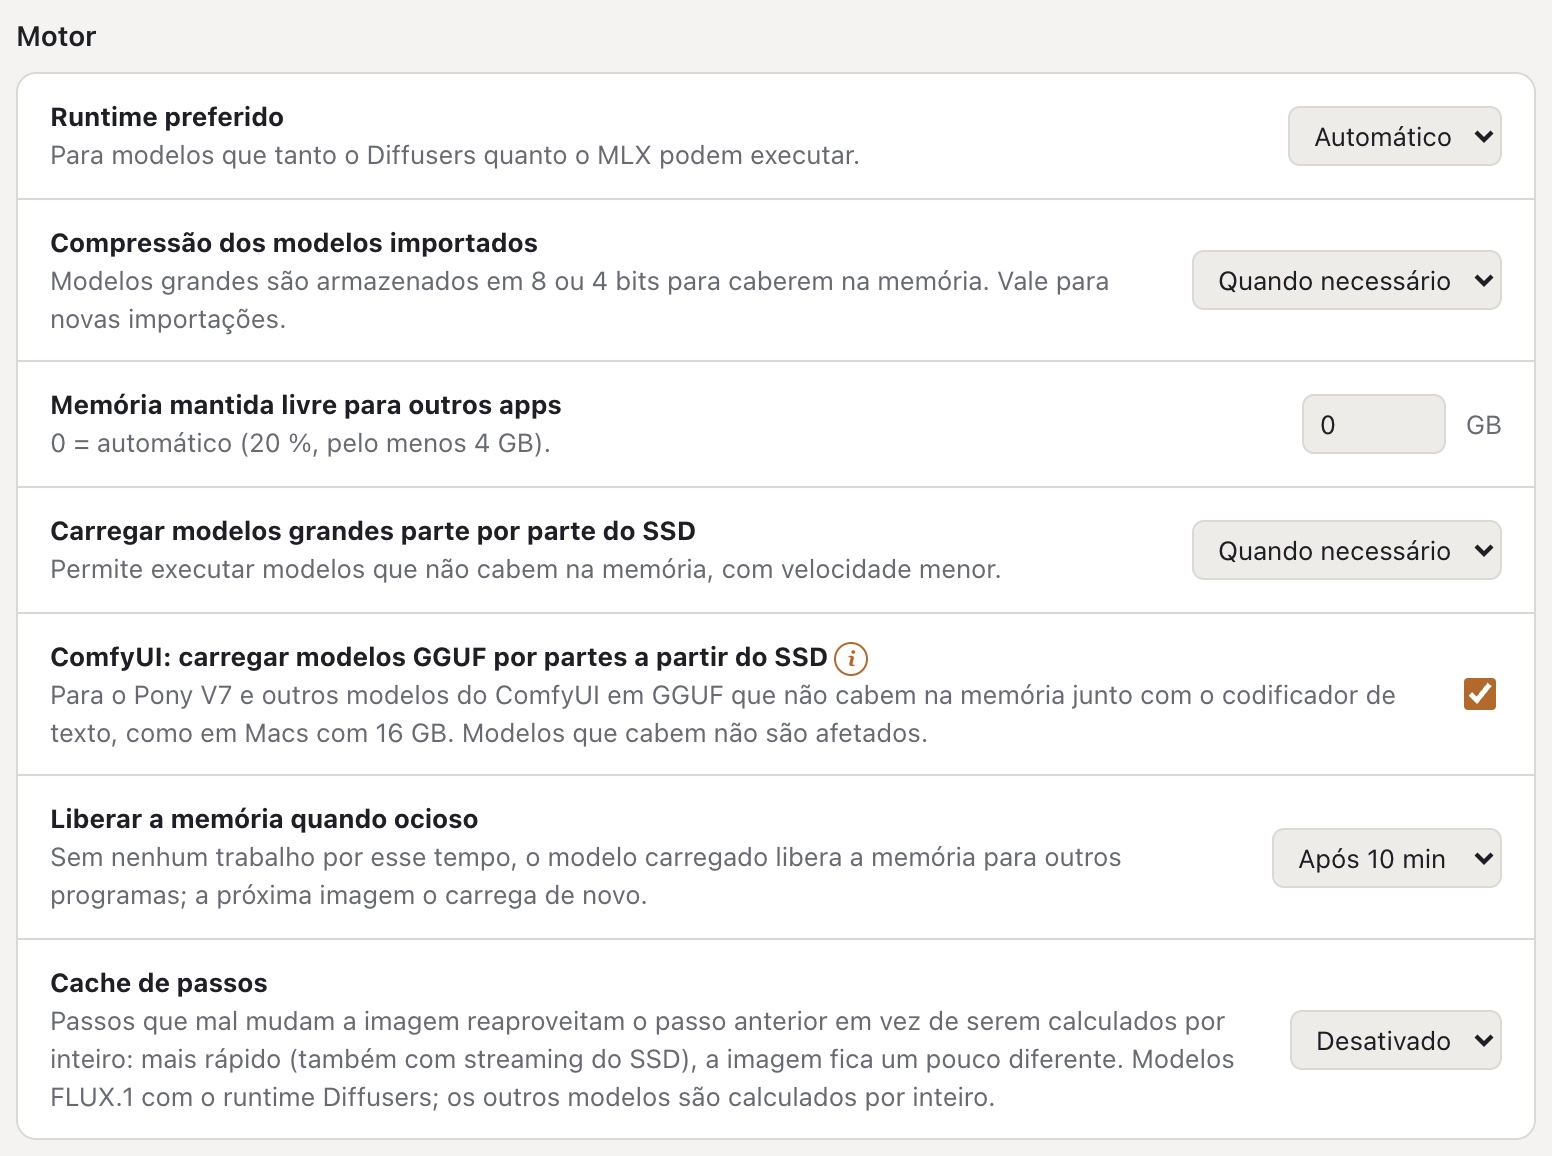
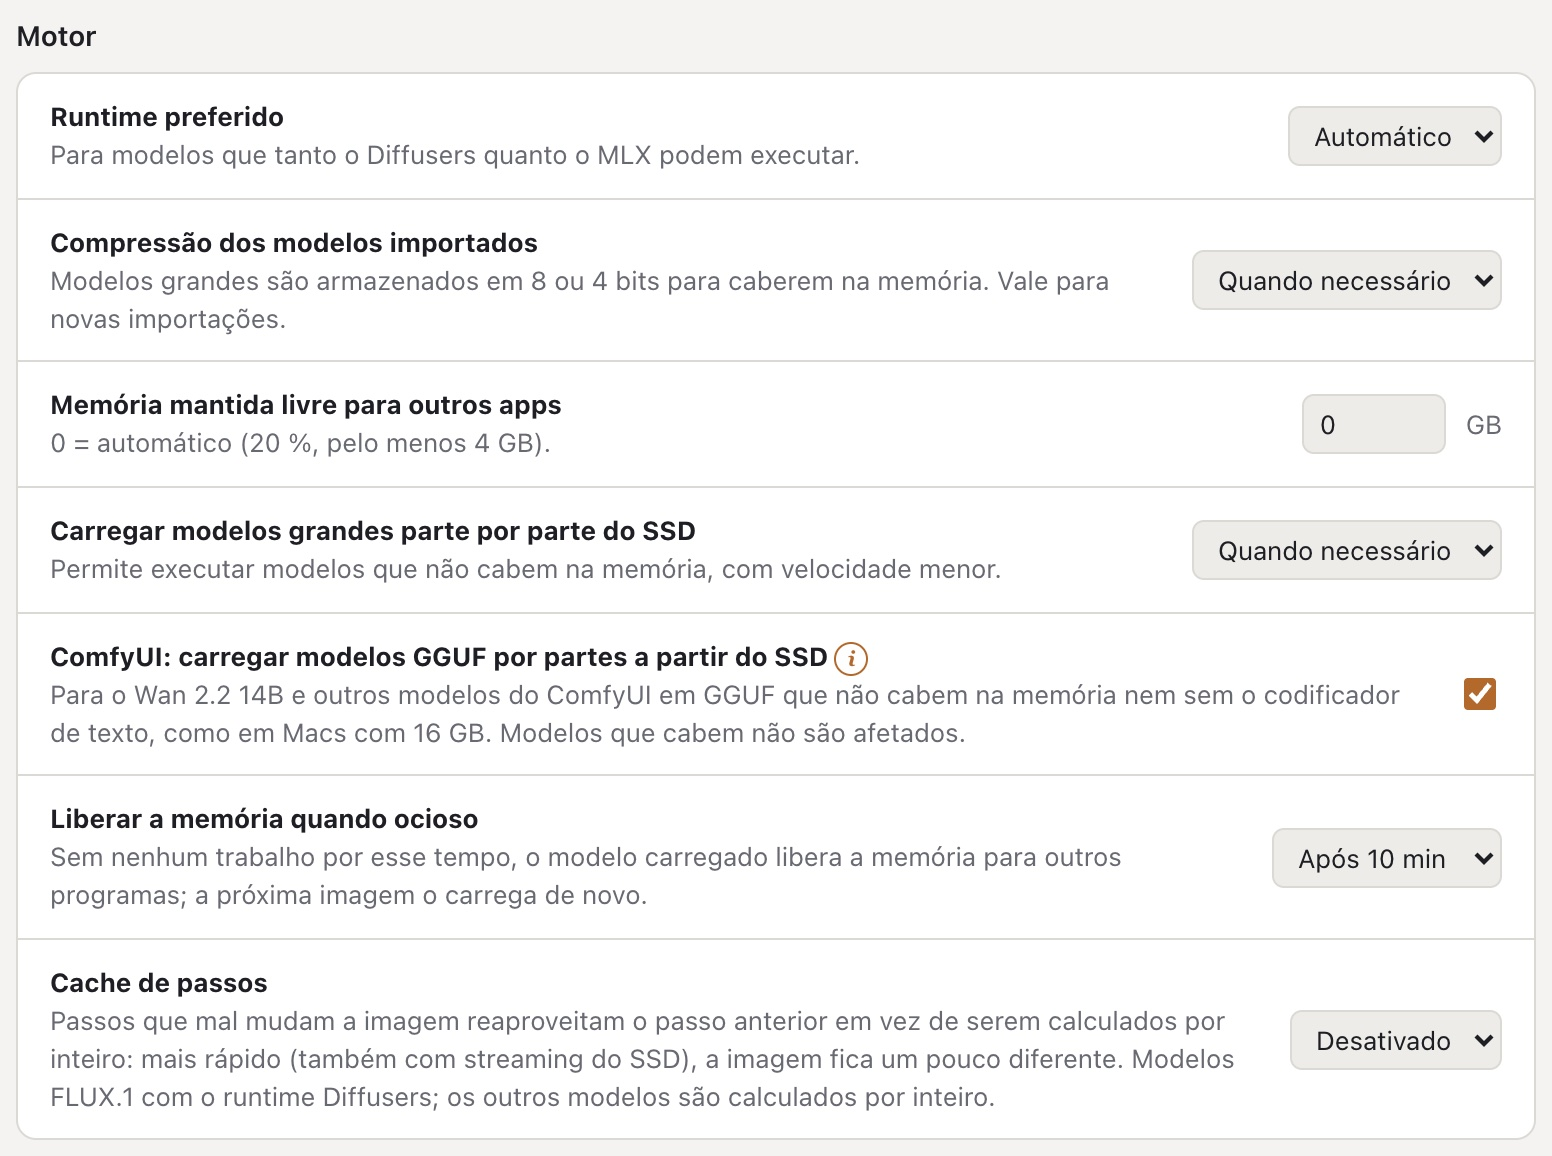
0.7.11: FLUX.2 [klein] 9B streamed on 16 GB stays within its memory plan, ComfyUI drops the text encoder when memory runs short (Pony V7 on 16 GB whole in memory and faster, NetaYume v4 9.2 instead of 14.1 GB)

Changed region(s): [[0.0309, 0.5917, 0.8969, 0.654]]

diff --git a/src/shared/i18n/en/settings.ts b/src/shared/i18n/en/settings.ts
@@ -60,8 +60,8 @@ export default {
     streaming: 'Load large models piece by piece from the SSD',
     streamingHint: 'Lets models run that do not fit into memory, at lower speed.',
     comfyStreaming: 'ComfyUI: load GGUF models piece by piece from the SSD',
-    comfyStreamingHint: 'For Pony V7 and other ComfyUI models in GGUF that do not fit into memory beside their text encoder, as on Macs with 16 GB. Models that fit are not affected.',
-    comfyStreamingDetails: 'Measured with Pony V7 (GGUF Q8_0, 1024 px): on 16 GB about 88 s per step instead of 225 s with the whole model in memory (macOS swaps). On 24 GB the model fits and loads whole (44 s per step); loaded piece by piece it would take 50 s. Only GGUF files: safetensors are read into memory as a whole.',
+    comfyStreamingHint: 'For Wan 2.2 14B and other ComfyUI models in GGUF that do not fit into memory even without their text encoder, as on Macs with 16 GB. Models that fit are not affected.',
+    comfyStreamingDetails: 'Only for models that do not fit even after ComfyUI dropped their text encoder (it does once the prompt is encoded and memory runs short), e.g. Wan 2.2 14B on 16 GB. Pony V7 (GGUF Q8_0, 1024 px) now loads whole on 16 GB: 47 s per step instead of 65 s piece by piece; on 24 GB 44 s, piece by piece it would take 50 s. Only GGUF files: safetensors are read into memory as a whole.',
     stepCache: 'Step caching',
     stepCacheHint: 'Steps that barely change the picture reuse the step before instead of being computed in full: faster (also when streaming from the SSD), the picture differs slightly. FLUX.1 models with the Diffusers runtime; other models are computed in full.',
     idleUnload: 'Free the memory when idle',

diff --git a/site/pt-PT/index.html b/site/pt-PT/index.html
@@ -46,7 +46,7 @@
 
   <header class="top">
     <div class="wrap">
-      <span class="brandbox"><a class="brand" href="../pt-PT/"><img src="../assets/icon.svg" width="30" height="30" alt="">VulKara</a><a class="ver" href="../changes/" title="Novidades" aria-label="Novidades: v0.7.10">v0.7.10</a></span>
+      <span class="brandbox"><a class="brand" href="../pt-PT/"><img src="../assets/icon.svg" width="30" height="30" alt="">VulKara</a><a class="ver" href="../changes/" title="Novidades" aria-label="Novidades: v0.7.11">v0.7.11</a></span>
       <nav aria-label="VulKara">
         <a href="#features">Funcionalidades</a>
         <a href="#models">Modelos</a>

diff --git a/site/de/index.html b/site/de/index.html
@@ -46,7 +46,7 @@
 
   <header class="top">
     <div class="wrap">
-      <span class="brandbox"><a class="brand" href="../de/"><img src="../assets/icon.svg" width="30" height="30" alt="">VulKara</a><a class="ver" href="../changes/" title="Änderungen" aria-label="Änderungen: v0.7.10">v0.7.10</a></span>
+      <span class="brandbox"><a class="brand" href="../de/"><img src="../assets/icon.svg" width="30" height="30" alt="">VulKara</a><a class="ver" href="../changes/" title="Änderungen" aria-label="Änderungen: v0.7.11">v0.7.11</a></span>
       <nav aria-label="VulKara">
         <a href="#features">Funktionen</a>
         <a href="#models">Modelle</a>

diff --git a/site/pt-BR/index.html b/site/pt-BR/index.html
@@ -46,7 +46,7 @@
 
   <header class="top">
     <div class="wrap">
-      <span class="brandbox"><a class="brand" href="../pt-BR/"><img src="../assets/icon.svg" width="30" height="30" alt="">VulKara</a><a class="ver" href="../changes/" title="Novidades" aria-label="Novidades: v0.7.10">v0.7.10</a></span>
+      <span class="brandbox"><a class="brand" href="../pt-BR/"><img src="../assets/icon.svg" width="30" height="30" alt="">VulKara</a><a class="ver" href="../changes/" title="Novidades" aria-label="Novidades: v0.7.11">v0.7.11</a></span>
       <nav aria-label="VulKara">
         <a href="#features">Recursos</a>
         <a href="#models">Modelos</a>

diff --git a/site/es/index.html b/site/es/index.html
@@ -46,7 +46,7 @@
 
   <header class="top">
     <div class="wrap">
-      <span class="brandbox"><a class="brand" href="../es/"><img src="../assets/icon.svg" width="30" height="30" alt="">VulKara</a><a class="ver" href="../changes/" title="Cambios" aria-label="Cambios: v0.7.10">v0.7.10</a></span>
+      <span class="brandbox"><a class="brand" href="../es/"><img src="../assets/icon.svg" width="30" height="30" alt="">VulKara</a><a class="ver" href="../changes/" title="Cambios" aria-label="Cambios: v0.7.11">v0.7.11</a></span>
       <nav aria-label="VulKara">
         <a href="#features">Funciones</a>
         <a href="#models">Modelos</a>

diff --git a/site/index.html b/site/index.html
@@ -46,7 +46,7 @@
 
   <header class="top">
     <div class="wrap">
-      <span class="brandbox"><a class="brand" href="./"><img src="assets/icon.svg" width="30" height="30" alt="">VulKara</a><a class="ver" href="changes/" title="Changes" aria-label="Changes: v0.7.10">v0.7.10</a></span>
+      <span class="brandbox"><a class="brand" href="./"><img src="assets/icon.svg" width="30" height="30" alt="">VulKara</a><a class="ver" href="changes/" title="Changes" aria-label="Changes: v0.7.11">v0.7.11</a></span>
       <nav aria-label="VulKara">
         <a href="#features">Features</a>
         <a href="#models">Models</a>

diff --git a/engines/comfy/main.py b/engines/comfy/main.py
@@ -136,10 +136,10 @@ def bit_sizes(model_dir, m, mode):
 
 
 def memory_mode(m, files, ram_gb):
-    """ComfyUI's memory mode for a model (m: its model.json): LOW_VRAM when SHARED would not hold it. SHARED keeps the
-    text encoder loaded next to the model, so it is counted without staging (Pony V7 Q8_0: 14 GB, docs/MEASUREMENTS.md
-    7h). Only a GGUF model streams from its file; Settings → ComfyUI streaming off (VK_COMFY_STREAMING=off) keeps
-    SHARED."""
+    """ComfyUI's memory mode for a model (m: its model.json): LOW_VRAM when SHARED would not hold it. In SHARED ComfyUI
+    drops the text encoder once the prompt is encoded when less than the memory kept free is left (--cache-ram), so it
+    is counted staged (Pony V7 Q8_0 on 16 GB: SHARED, 10.6 GB, docs/MEASUREMENTS.md 7ae). Only a GGUF model streams
+    from its file; Settings → ComfyUI streaming off (VK_COMFY_STREAMING=off) keeps SHARED."""
     if os.environ.get("VK_COMFY_STREAMING", "on").strip().lower() in ("off", "0"):
         return "SHARED"
     if not str(files.get("diffusion_model", "")).lower().endswith(".gguf"):
@@ -148,10 +148,11 @@ def memory_mode(m, files, ram_gb):
 
 
 def shared_plan(m, ram_gb):
-    """The memory plan of a model held whole in memory (SHARED), text encoder included."""
+    """The memory plan of a model held whole in memory (SHARED), its text encoder loaded only while encoding (not
+    measured for video: Wan 2.2 14B has two experts the plan counts as one, so it keeps the text encoder counted)."""
     spec = registry.ARCHS[m["arch"]]
     return memory.plan(m.get("components") or spec["fallback_params"], spec["denoiser"], spec["family"], ram_gb,
-                       quant="none", allow_staging=False)
+                       quant="none", allow_staging=spec.get("kind") != "video")
 
 
 class ComfyServer:
@@ -195,12 +196,16 @@ class ComfyServer:
         self.token = secrets.token_urlsafe(32)
         self.port = _free_port()
         self.mode = "SHARED"
-        # only on the loopback interface; API nodes (paid online services) are not loaded; attention: vulkara_memory
+        # only on the loopback interface; API nodes (paid online services) are not loaded; attention: vulkara_memory;
+        # --cache-ram: ComfyUI drops cached node outputs (the text encoder once the prompt is encoded) when less than
+        # the memory kept free is left, not only below its own 10 % (MEASUREMENTS 7ae)
+        ram = memory.total_ram_gb()
         with open(WORK / "comfyui.log", "w") as log:
             self.proc = subprocess.Popen(
                 [sys.executable, "main.py", "--listen", "127.0.0.1", "--port", str(self.port), "--disable-auto-launch",
                  "--disable-api-nodes", "--disable-metadata", "--disable-all-custom-nodes", "--use-pytorch-cross-attention",
                  "--whitelist-custom-nodes", "ComfyUI-GGUF", "vulkara_guard", "vulkara_memory",
+                 "--cache-ram", "%.1f" % min(ram - memory.budget_gb(ram), ram / 2),
                  "--extra-model-paths-config", str(cfg),
                  "--output-directory", str(WORK / "output"), "--temp-directory", str(WORK / "temp"),
                  "--input-directory", str(WORK / "input"), "--user-directory", str(WORK / "user")],

diff --git a/engines/diffusers/engine.py b/engines/diffusers/engine.py
@@ -33,8 +33,6 @@ def stream_mode():
     return {"0": "off", "1": "always"}.get(v, v if v in ("auto", "always", "off") else "auto")
 
 
-# share of a streamed denoiser counted as resident (one block plus the rest of the model)
-STREAM_RESIDENT_SHARE = 0.15
 # what the memory plan leaves free beyond that may keep blocks of a streamed model on the GPU, less this margin
 STREAM_KEEP_MARGIN = 0.05
 SLICE_ABOVE_PIXELS = 1536 * 1536
@@ -230,7 +228,7 @@ class LoadedModel:
             # the denoiser's blocks come from the SSD one at a time (streaming.py); "auto" only as an
             # emergency mode for models that do not fit otherwise
             comps = dict(self.m["components"])
-            comps[self.m["denoiser"]] = comps[self.m["denoiser"]] * STREAM_RESIDENT_SHARE
+            comps[self.m["denoiser"]] = comps[self.m["denoiser"]] * memory.stream_resident_share(self.spec["family"])
             plan = memory.plan(comps, self.m["denoiser"], self.spec["family"], ram, quant="auto")
             te_opts = None
             if not plan["fits"]:
@@ -1017,10 +1015,11 @@ def keep_plan(components, denoiser, family, ram_gb, streamed_plan, text_quant_op
     while a new prompt is encoded and are read back after (once per prompt, not per step): then only the denoising
     has to fit. Returns (share, plan, release), release: free the kept blocks while encoding."""
     full_gb = memory._gb(components[denoiser], "none")
+    resident = memory.stream_resident_share(family)
     worst = max([1] + [_TE_RANK.get(q, 0) for n, q in streamed_plan["quant"].items() if n != denoiser])
     for twentieths in range(20, 3, -1):
         share = twentieths / 20
-        keep = round(share - STREAM_RESIDENT_SHARE - STREAM_KEEP_MARGIN, 2)
+        keep = round(share - resident - STREAM_KEEP_MARGIN, 2)
         if keep <= 0:
             break
         # the denoiser at its real size (16 bit), only the text encoders' precision and staging are for the plan to pick
@@ -1029,15 +1028,15 @@ def keep_plan(components, denoiser, family, ram_gb, streamed_plan, text_quant_op
         te_ok = all(_TE_RANK.get(q, 0) <= worst for n, q in p["quant"].items() if n != denoiser)
         if p["fits"] and te_ok:
             p["quant"][denoiser] = "none"
-            return min(keep, 1.0 - STREAM_RESIDENT_SHARE), p, False
+            return min(keep, 1.0 - resident), p, False
         # the streamed plan's encoding (blocks in flight only) stays as it is; denoising holds the kept blocks
-        denoising = streamed_plan["denoise_peak_gb"] + full_gb * (share - STREAM_RESIDENT_SHARE)
+        denoising = streamed_plan["denoise_peak_gb"] + full_gb * (share - resident)
         if streamed_plan["staged_text_encoder"] and denoising <= streamed_plan["budget_gb"]:
             # the kept blocks count while denoising (the job's planned peak, the room for a ControlNet), not while
             # encoding, when they are released
             p = dict(streamed_plan, denoise_peak_gb=round(denoising, 1),
                      est_peak_gb=round(max(streamed_plan["est_peak_gb"], denoising), 1))
-            return min(keep, 1.0 - STREAM_RESIDENT_SHARE), p, True
+            return min(keep, 1.0 - resident), p, True
     return 0.0, streamed_plan, False
 
 

diff --git a/engines/diffusers/tests/test_stream_plan.py b/engines/diffusers/tests/test_stream_plan.py
@@ -49,19 +49,27 @@ def test_a_streamed_model_keeps_what_the_memory_plan_allows():
     import memory
     comps = {"text_encoder": 0.1, "text_encoder_2": 4.8, "transformer": 11.9, "vae": 0.1}  # FLUX.1 [dev]
     full_gb = memory._gb(11.9, "none")
+    resident = memory.stream_resident_share("flux")
     for ram, low, high in ((16, 0.05, 0.35), (24, 0.3, 0.8)):
-        streamed = dict(comps, transformer=comps["transformer"] * engine.STREAM_RESIDENT_SHARE)
+        streamed = dict(comps, transformer=comps["transformer"] * resident)
         plan = memory.plan(streamed, "transformer", "flux", ram)
         keep, kept_plan, release = engine.keep_plan(comps, "transformer", "flux", ram, plan)
         assert low <= keep <= high, (ram, keep)
         assert kept_plan["fits"] and kept_plan["quant"]["transformer"] == "none"
         assert kept_plan["quant"]["text_encoder_2"] in ("none", "q8")  # never 4 bit for it
-        share = keep + engine.STREAM_RESIDENT_SHARE + engine.STREAM_KEEP_MARGIN
+        share = keep + resident + engine.STREAM_KEEP_MARGIN
         if release:  # 16 GB: the text encoder is staged and gets the kept blocks' room; denoising fits with them
             assert ram == 16 and kept_plan["staged_text_encoder"]
-            assert plan["denoise_peak_gb"] + full_gb * (share - engine.STREAM_RESIDENT_SHARE) <= plan["budget_gb"]
+            assert plan["denoise_peak_gb"] + full_gb * (share - resident) <= plan["budget_gb"]
             # and the plan the job reports counts them while denoising
-            assert kept_plan["denoise_peak_gb"] == round(plan["denoise_peak_gb"] + full_gb * (share - engine.STREAM_RESIDENT_SHARE), 1)
+            assert kept_plan["denoise_peak_gb"] == round(plan["denoise_peak_gb"] + full_gb * (share - resident), 1)
             assert kept_plan["est_peak_gb"] >= kept_plan["denoise_peak_gb"] > plan["denoise_peak_gb"]
         else:  # with the margin given back it still fits: kept + in flight + margin <= what the plan allowed
             assert memory.plan(comps, "transformer", "flux", ram, denoiser_fixed_gb=full_gb * share)["fits"]
+
+
+def test_flux2_counts_its_large_double_blocks_in_flight():
+    import memory
+    # klein 9B streamed on 16 GB: five 0.87 GB double blocks in flight (MEASUREMENTS 7ac), more than the usual 15 %
+    assert memory.stream_resident_share("flux2") * memory._gb(9.08, "none") >= 4.3
+    assert memory.stream_resident_share("qwen_image") == 0.15

diff --git a/engines/diffusers/tests/test_comfy.py b/engines/diffusers/tests/test_comfy.py
@@ -300,12 +300,16 @@ def test_comfyui_streams_a_gguf_model_only_where_shared_would_not_hold_it(monkey
     monkeypatch.delenv("VK_MEMORY_RESERVE_GB", raising=False)
     pony = {"arch": "auraflow", "components": {"transformer": 3.67, "text_encoder": 1.47, "vae": 0.08}}
     gguf = {"diffusion_model": "pony__diffusion_model.gguf"}
-    # SHARED keeps the text encoder beside it: about 14 GB, as measured
-    assert main.memory_mode(pony, gguf, 16) == "LOW_VRAM"
-    assert main.memory_mode(pony, gguf, 24) == "SHARED"
-    assert main.memory_mode(pony, {"diffusion_model": "x.safetensors"}, 16) == "SHARED"  # read into memory anyway
-    monkeypatch.setenv("VK_COMFY_STREAMING", "off")
+    # SHARED with the text encoder dropped after encoding (--cache-ram): 10.6 GB on 16 GB, faster than LOW_VRAM (7ae)
     assert main.memory_mode(pony, gguf, 16) == "SHARED"
+    assert main.memory_mode(pony, gguf, 14) == "LOW_VRAM"
+    assert main.memory_mode(pony, gguf, 24) == "SHARED"
+    # a video model keeps its text encoder counted (two experts, not measured staged): Wan 2.2 14B streams on 24 GB
+    wan = {"arch": "wan22_i2v_14b", "components": {"transformer": 5.4, "text_encoder": 2.9, "vae": 0.13}}
+    assert main.memory_mode(wan, {"diffusion_model": "high.gguf"}, 24) == "LOW_VRAM"
+    assert main.memory_mode(pony, {"diffusion_model": "x.safetensors"}, 14) == "SHARED"  # read into memory anyway
+    monkeypatch.setenv("VK_COMFY_STREAMING", "off")
+    assert main.memory_mode(pony, gguf, 14) == "SHARED"
 
 
 def test_a_comfyui_gguf_too_large_for_memory_is_planned_streamed(monkeypatch):

diff --git a/engines/diffusers/profiles.py b/engines/diffusers/profiles.py
@@ -38,7 +38,6 @@ MODELS = [
      "components": {"transformer": 9.28, "unconditional_transformer": 9.28, "text_encoder": 8.2, "vae": 0.08}},
 ]
 SIDES = [1024, 768, 512]
-STREAM_RESIDENT_SHARE = 0.15  # as engine.py counts a streamed denoiser
 QUANT_TEXT = {"none": "16 bit", "q8": "8 bit", "q4": "4 bit", "gguf": "GGUF"}
 
 
@@ -139,7 +138,7 @@ def recommendations(ram_gb, bf16_native=True):
             if side is None:
                 # emergency mode of the engine: the denoiser's blocks come from the SSD (engine.py)
                 comps = dict(model["components"])
-                comps[model["denoiser"]] *= STREAM_RESIDENT_SHARE
+                comps[model["denoiser"]] *= memory.stream_resident_share(model["family"])
                 sp = memory.plan(comps, model["denoiser"], model["family"], ram_gb)
                 if not sp["fits"]:
                     # as the engine: a big text encoder in 4 bit as the last resort

diff --git a/engines/diffusers/memory.py b/engines/diffusers/memory.py
@@ -27,6 +27,15 @@ NATIVE_SIDE = {"sd1": 512, "sd2": 768}
 # further denoisers that run next to the main one and get its precision (Ideogram 4 denoises with a
 # conditional and an unconditional transformer)
 SECOND_DENOISERS = ("unconditional_transformer",)
+# share of a streamed denoiser counted as resident while denoising: the rest of the model and the blocks in flight (on
+# the GPU up to three, streaming.QUEUED waiting and the one loading, and two read ahead). 15 % holds for models of many
+# small blocks (Qwen-Image 2.1, MEASUREMENTS 7w); a FLUX.2 double block is 4.8 % of the model, five of them in flight
+# 27 % (klein 9B: 14.3 GB with 15 %, planned 12 GB, 7ac)
+STREAM_RESIDENT_SHARE = {"flux2": 0.27}
+
+
+def stream_resident_share(family):
+    return STREAM_RESIDENT_SHARE.get(family, 0.15)
 
 BYTES_PER_PARAM = {"none": 2.0, "q8": 1.05, "q4": 0.6}
 QUANT_ORDER = ["none", "q8", "q4"]  # best quality first
